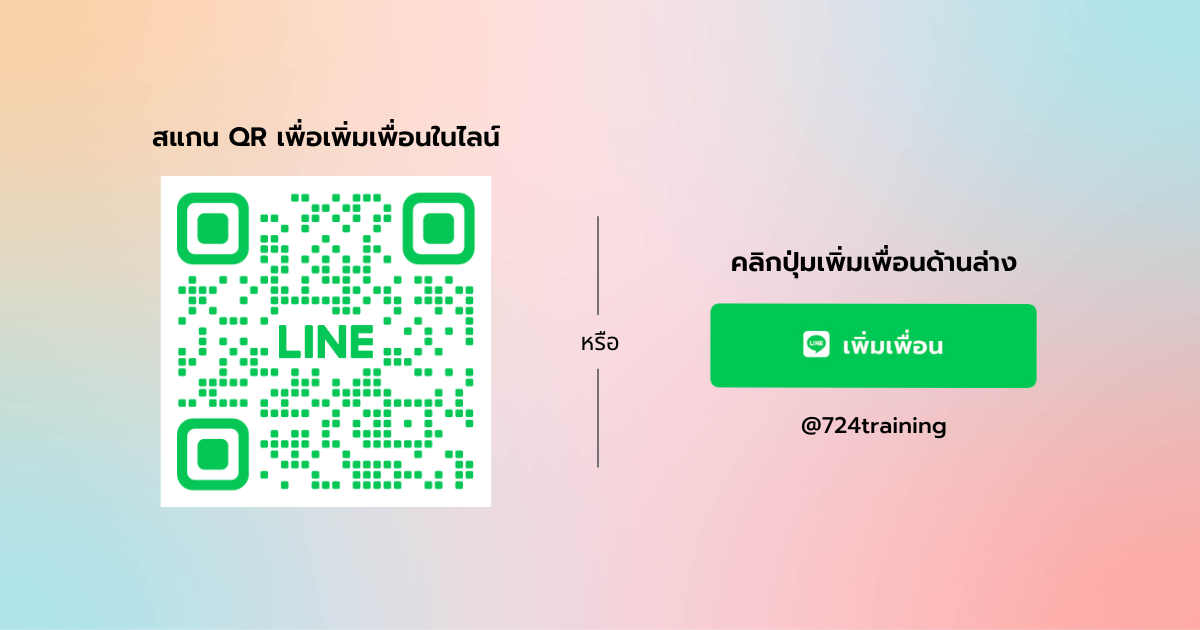
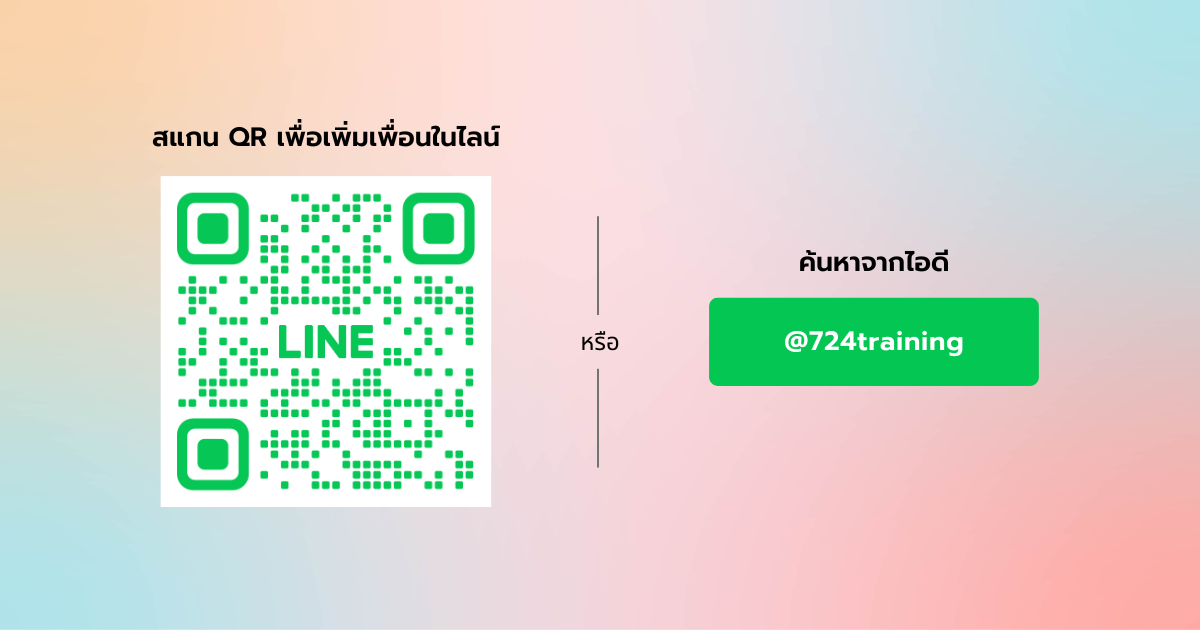
GITBOOK-2: No subject

diff --git a/others/faqs.md b/others/faqs.md
@@ -16,40 +16,45 @@ layout:
 
 <figure><img src="https://gitbookio.github.io/onboarding-template-images/quickstart-hero.png" alt=""><figcaption></figcaption></figure>
 
-<details>  
-<summary><strong>การสมัครสมาชิกใช้เวลากี่วันจึงจะทราบผล?</strong></summary>  
+<details>
 
-- หากสมัคร **ก่อน 16:00 น.** จะทราบผลการสมัครภายในวันเดียวกัน  
-- หากสมัคร **หลัง 16:00 น.** จะทราบผลการสมัครในวันถัดไป  
+<summary><strong>การสมัครสมาชิกใช้เวลากี่วันจึงจะทราบผล?</strong></summary>
 
-</details>  
+* หากสมัคร **ก่อน 16:00 น.** จะทราบผลการสมัครภายในวันเดียวกัน
+* หากสมัคร **หลัง 16:00 น.** จะทราบผลการสมัครในวันถัดไป
 
-<details>  
-<summary><strong>ช่องทางในการทราบผลการสมัครมีอะไรบ้าง?</strong></summary>  
+</details>
 
-คุณจะได้รับผลการสมัครผ่าน **SMS** ที่ส่งไปยังหมายเลขโทรศัพท์ที่ใช้ลงทะเบียนไว้  
+<details>
 
-</details>  
+<summary><strong>ช่องทางในการทราบผลการสมัครมีอะไรบ้าง?</strong></summary>
 
-<details>  
-<summary><strong>กรณียืนยันตัวตน (e-KYC) ไม่ผ่านเกณฑ์ ยังสามารถสมัครได้หรือไม่?</strong></summary>  
+คุณจะได้รับผลการสมัครผ่าน **SMS** ที่ส่งไปยังหมายเลขโทรศัพท์ที่ใช้ลงทะเบียนไว้
 
-ได้ แม้ผลการยืนยันตัวตน (e-KYC) จะไม่ผ่านเกณฑ์ ระบบจะส่งข้อมูลของคุณไปยังเจ้าหน้าที่เพื่อทำการตรวจสอบและพิจารณาอนุมัติอีกครั้ง  
+</details>
 
-</details>  
+<details>
 
-<details>  
-<summary><strong>แชร์ลิงก์สมัครแบบ Affiliate แล้วข้อมูลผู้แนะนำไม่ขึ้น?</strong></summary>  
+<summary><strong>กรณียืนยันตัวตน (e-KYC) ไม่ผ่านเกณฑ์ ยังสามารถสมัครได้หรือไม่?</strong></summary>
 
-สาเหตุอาจเกิดจาก **สถานะ Affiliate ของผู้แนะนำหมดอายุ** กรุณาต่ออายุสมาชิกก่อนเพื่อให้ข้อมูลผู้แนะนำแสดงผลตามปกติ ระบบจะอัปเดตและสามารถใช้งานได้ในวันถัดไป  
+ได้ แม้ผลการยืนยันตัวตน (e-KYC) จะไม่ผ่านเกณฑ์ ระบบจะส่งข้อมูลของคุณไปยังเจ้าหน้าที่เพื่อทำการตรวจสอบและพิจารณาอนุมัติอีกครั้ง
+
+</details>
+
+<details>
+
+<summary><strong>แชร์ลิงก์สมัครแบบ Affiliate แล้วข้อมูลผู้แนะนำไม่ขึ้น?</strong></summary>
+
+สาเหตุอาจเกิดจาก **สถานะ Affiliate ของผู้แนะนำหมดอายุ** กรุณาต่ออายุสมาชิกก่อนเพื่อให้ข้อมูลผู้แนะนำแสดงผลตามปกติ ระบบจะอัปเดตและสามารถใช้งานได้ในวันถัดไป
 
 </details>
 
 {% hint style="success" %}
-**เพิ่มความสะดวกด้วย 724 Connext**  
+**เพิ่มความสะดวกด้วย 724 Connext**
 
-เพียงเชื่อมต่อกับ **724 Connext** เพื่อรับบริการที่ง่ายและสะดวกยิ่งขึ้น เช่น การตรวจสอบสถานะการสมัคร การติดตามข้อมูล หรือบริการอื่น ๆ ที่เกี่ยวข้อง  
+เพียงเชื่อมต่อกับ **724 Connext** เพื่อรับบริการที่ง่ายและสะดวกยิ่งขึ้น เช่น การตรวจสอบสถานะการสมัคร การติดตามข้อมูล หรือบริการอื่น ๆ ที่เกี่ยวข้อง
 
-<figure><a href="https://lin.ee/3sktdef" target="_blank"><img src="../.gitbook/assets/add-line-724training.png" alt=""></a></figure>
 
 {% endhint %}
+
+<figure><img src="../.gitbook/assets/add-line-724training.png" alt=""><figcaption></figcaption></figure>
